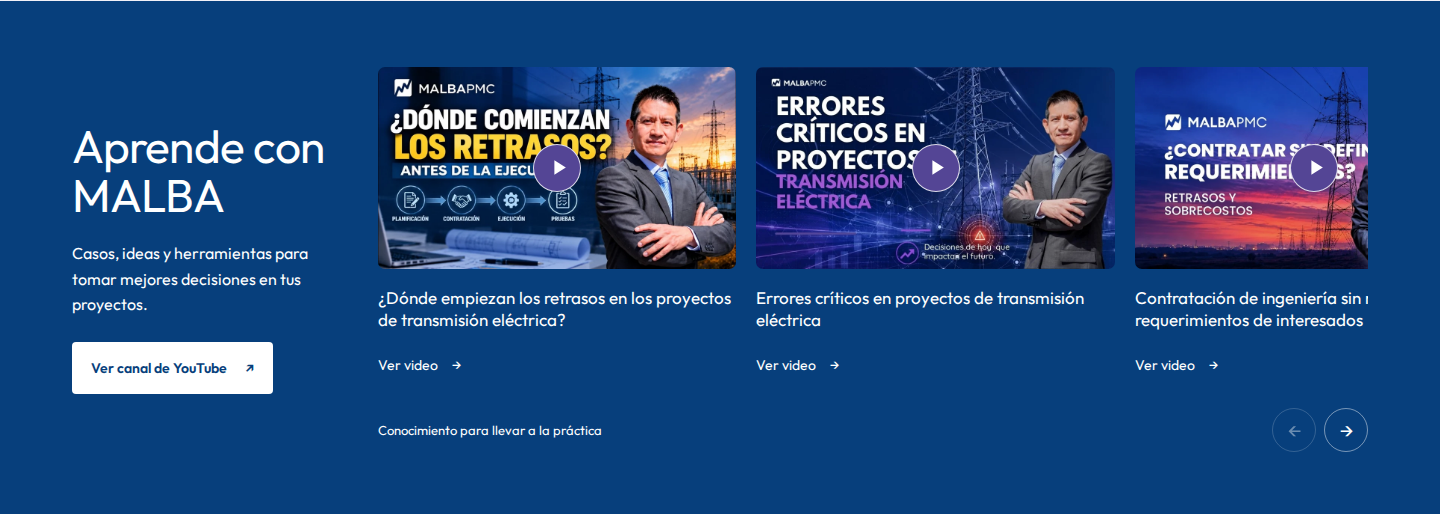
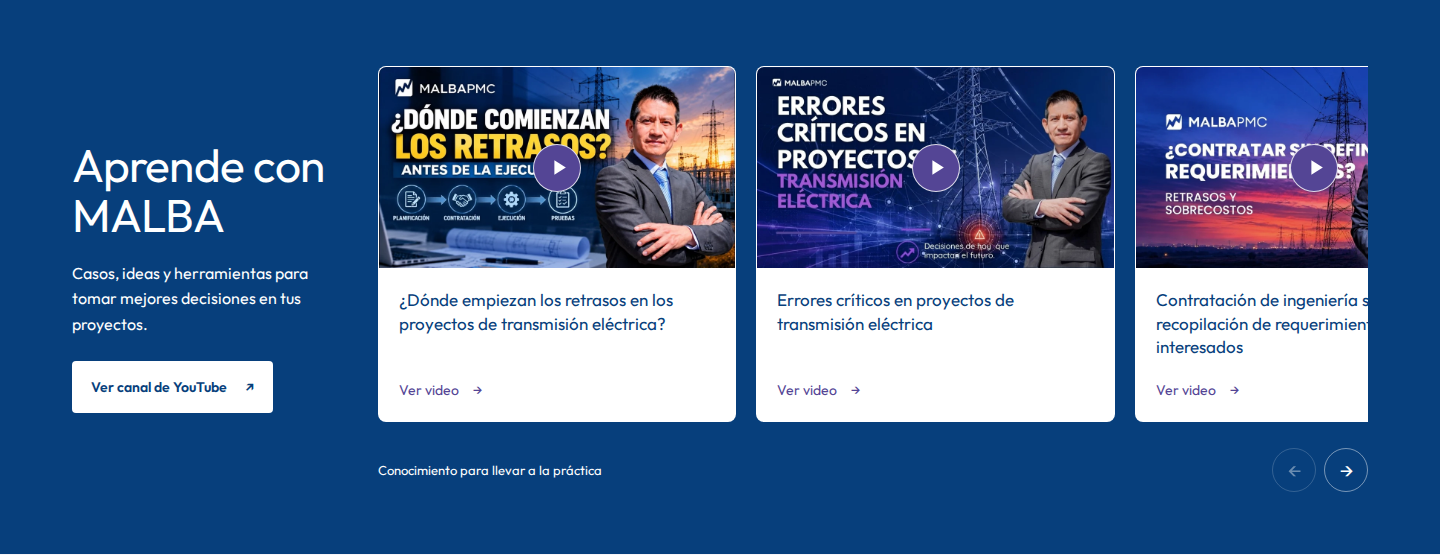
Finish home with video card backgrounds, updated section order and footer

diff --git a/index.html b/index.html
@@ -486,6 +486,41 @@
         </div>
       </section>
 
+      <section class="learn-section" id="aprende" aria-labelledby="learn-title">
+        <div class="learn-layout section-container">
+          <div class="learn-intro"><h2 id="learn-title">Aprende con <span>MALBA</span></h2><p>Casos, ideas y herramientas para tomar mejores decisiones en tus proyectos.</p><a class="button button-white" href="https://www.youtube.com/@malbapmc2563/videos" target="_blank" rel="noopener noreferrer">Ver canal de YouTube <span aria-hidden="true">↗</span></a></div>
+          <div class="learn-collection">
+            <div class="learn-video-track" id="learn-video-list" tabindex="0" aria-label="Videos de MALBA: desliza o usa las flechas para explorar">
+              <article class="learn-video-card">
+                <button class="learn-video-cover" type="button" data-dialog="video-dialog" data-youtube-id="WPikCuHg2q8" data-video-title="¿Dónde empiezan los retrasos en los proyectos de transmisión eléctrica?" aria-label="Ver video: ¿Dónde empiezan los retrasos en los proyectos de transmisión eléctrica?" aria-haspopup="dialog">
+                  <img src="assets/videos/WPikCuHg2q8.webp" width="960" height="540" alt="Portada del video ¿Dónde empiezan los retrasos en los proyectos de transmisión eléctrica?" loading="lazy" decoding="async" />
+                  <span class="learn-play" aria-hidden="true"><svg viewBox="0 0 24 24" fill="currentColor"><path d="m9 5 11 7-11 7V5Z"/></svg></span>
+                </button>
+                <h3>¿Dónde empiezan los retrasos en los proyectos de transmisión eléctrica?</h3>
+                <button class="learn-video-link" type="button" data-dialog="video-dialog" data-youtube-id="WPikCuHg2q8" data-video-title="¿Dónde empiezan los retrasos en los proyectos de transmisión eléctrica?" aria-haspopup="dialog">Ver video <span aria-hidden="true">→</span><span class="sr-only">: ¿Dónde empiezan los retrasos en los proyectos de transmisión eléctrica?</span></button>
+              </article>
+              <article class="learn-video-card">
+                <button class="learn-video-cover" type="button" data-dialog="video-dialog" data-youtube-id="RRj4MDh8rNQ" data-video-title="Errores críticos en proyectos de transmisión eléctrica" aria-label="Ver video: Errores críticos en proyectos de transmisión eléctrica" aria-haspopup="dialog">
+                  <img src="assets/videos/RRj4MDh8rNQ.webp" width="960" height="540" alt="Portada del video Errores críticos en proyectos de transmisión eléctrica" loading="lazy" decoding="async" />
+                  <span class="learn-play" aria-hidden="true"><svg viewBox="0 0 24 24" fill="currentColor"><path d="m9 5 11 7-11 7V5Z"/></svg></span>
+                </button>
+                <h3>Errores críticos en proyectos de transmisión eléctrica</h3>
+                <button class="learn-video-link" type="button" data-dialog="video-dialog" data-youtube-id="RRj4MDh8rNQ" data-video-title="Errores críticos en proyectos de transmisión eléctrica" aria-haspopup="dialog">Ver video <span aria-hidden="true">→</span><span class="sr-only">: Errores críticos en proyectos de transmisión eléctrica</span></button>
+              </article>
+              <article class="learn-video-card">
+                <button class="learn-video-cover" type="button" data-dialog="video-dialog" data-youtube-id="NrEJvAJ7NGo" data-video-title="Contratación de ingeniería sin recopilación de requerimientos de interesados" aria-label="Ver video: Contratación de ingeniería sin recopilación de requerimientos de interesados" aria-haspopup="dialog">
+                  <img src="assets/videos/NrEJvAJ7NGo.webp" width="960" height="540" alt="Portada del video Contratación de ingeniería sin recopilación de requerimientos de interesados" loading="lazy" decoding="async" />
+                  <span class="learn-play" aria-hidden="true"><svg viewBox="0 0 24 24" fill="currentColor"><path d="m9 5 11 7-11 7V5Z"/></svg></span>
+                </button>
+                <h3>Contratación de ingeniería sin recopilación de requerimientos de interesados</h3>
+                <button class="learn-video-link" type="button" data-dialog="video-dialog" data-youtube-id="NrEJvAJ7NGo" data-video-title="Contratación de ingeniería sin recopilación de requerimientos de interesados" aria-haspopup="dialog">Ver video <span aria-hidden="true">→</span><span class="sr-only">: Contratación de ingeniería sin recopilación de requerimientos de interesados</span></button>
+              </article>
+            </div>
+            <div class="collection-controls" data-collection="learn-video-list" aria-label="Recorrer videos"><span>Conocimiento para llevar a la práctica</span><div><button type="button" data-collection-step="-1" aria-label="Video anterior">←</button><button type="button" data-collection-step="1" aria-label="Video siguiente">→</button></div></div>
+          </div>
+        </div>
+      </section>
+
       <section class="expertise-section" id="soluciones" aria-labelledby="expertise-title">
         <div class="expertise-words" aria-hidden="true"><span>EXPERIENCIA · PROYECTOS</span><span>RIESGO · CONOCIMIENTO</span><span>FORMACIÓN · TRANSMISIÓN</span><span>GESTIÓN · EXPERIENCIA</span></div>
         <div class="expertise-layout section-container">
@@ -537,41 +572,25 @@
           <p class="knowledge-closing">Cada resultado alimenta una nueva experiencia. El conocimiento sigue creciendo.</p>
         </div>
       </section>
-      <section class="learn-section" id="aprende" aria-labelledby="learn-title">
-        <div class="learn-layout section-container">
-          <div class="learn-intro"><h2 id="learn-title">Aprende con <span>MALBA</span></h2><p>Casos, ideas y herramientas para tomar mejores decisiones en tus proyectos.</p><a class="button button-white" href="https://www.youtube.com/@malbapmc2563/videos" target="_blank" rel="noopener noreferrer">Ver canal de YouTube <span aria-hidden="true">↗</span></a></div>
-          <div class="learn-collection">
-            <div class="learn-video-track" id="learn-video-list" tabindex="0" aria-label="Videos de MALBA: desliza o usa las flechas para explorar">
-              <article class="learn-video-card">
-                <button class="learn-video-cover" type="button" data-dialog="video-dialog" data-youtube-id="WPikCuHg2q8" data-video-title="¿Dónde empiezan los retrasos en los proyectos de transmisión eléctrica?" aria-label="Ver video: ¿Dónde empiezan los retrasos en los proyectos de transmisión eléctrica?" aria-haspopup="dialog">
-                  <img src="assets/videos/WPikCuHg2q8.webp" width="960" height="540" alt="Portada del video ¿Dónde empiezan los retrasos en los proyectos de transmisión eléctrica?" loading="lazy" decoding="async" />
-                  <span class="learn-play" aria-hidden="true"><svg viewBox="0 0 24 24" fill="currentColor"><path d="m9 5 11 7-11 7V5Z"/></svg></span>
-                </button>
-                <h3>¿Dónde empiezan los retrasos en los proyectos de transmisión eléctrica?</h3>
-                <button class="learn-video-link" type="button" data-dialog="video-dialog" data-youtube-id="WPikCuHg2q8" data-video-title="¿Dónde empiezan los retrasos en los proyectos de transmisión eléctrica?" aria-haspopup="dialog">Ver video <span aria-hidden="true">→</span><span class="sr-only">: ¿Dónde empiezan los retrasos en los proyectos de transmisión eléctrica?</span></button>
-              </article>
-              <article class="learn-video-card">
-                <button class="learn-video-cover" type="button" data-dialog="video-dialog" data-youtube-id="RRj4MDh8rNQ" data-video-title="Errores críticos en proyectos de transmisión eléctrica" aria-label="Ver video: Errores críticos en proyectos de transmisión eléctrica" aria-haspopup="dialog">
-                  <img src="assets/videos/RRj4MDh8rNQ.webp" width="960" height="540" alt="Portada del video Errores críticos en proyectos de transmisión eléctrica" loading="lazy" decoding="async" />
-                  <span class="learn-play" aria-hidden="true"><svg viewBox="0 0 24 24" fill="currentColor"><path d="m9 5 11 7-11 7V5Z"/></svg></span>
-                </button>
-                <h3>Errores críticos en proyectos de transmisión eléctrica</h3>
-                <button class="learn-video-link" type="button" data-dialog="video-dialog" data-youtube-id="RRj4MDh8rNQ" data-video-title="Errores críticos en proyectos de transmisión eléctrica" aria-haspopup="dialog">Ver video <span aria-hidden="true">→</span><span class="sr-only">: Errores críticos en proyectos de transmisión eléctrica</span></button>
-              </article>
-              <article class="learn-video-card">
-                <button class="learn-video-cover" type="button" data-dialog="video-dialog" data-youtube-id="NrEJvAJ7NGo" data-video-title="Contratación de ingeniería sin recopilación de requerimientos de interesados" aria-label="Ver video: Contratación de ingeniería sin recopilación de requerimientos de interesados" aria-haspopup="dialog">
-                  <img src="assets/videos/NrEJvAJ7NGo.webp" width="960" height="540" alt="Portada del video Contratación de ingeniería sin recopilación de requerimientos de interesados" loading="lazy" decoding="async" />
-                  <span class="learn-play" aria-hidden="true"><svg viewBox="0 0 24 24" fill="currentColor"><path d="m9 5 11 7-11 7V5Z"/></svg></span>
-                </button>
-                <h3>Contratación de ingeniería sin recopilación de requerimientos de interesados</h3>
-                <button class="learn-video-link" type="button" data-dialog="video-dialog" data-youtube-id="NrEJvAJ7NGo" data-video-title="Contratación de ingeniería sin recopilación de requerimientos de interesados" aria-haspopup="dialog">Ver video <span aria-hidden="true">→</span><span class="sr-only">: Contratación de ingeniería sin recopilación de requerimientos de interesados</span></button>
-              </article>
-            </div>
-            <div class="collection-controls" data-collection="learn-video-list" aria-label="Recorrer videos"><span>Conocimiento para llevar a la práctica</span><div><button type="button" data-collection-step="-1" aria-label="Video anterior">←</button><button type="button" data-collection-step="1" aria-label="Video siguiente">→</button></div></div>
-          </div>
-        </div>
-      </section>
+
     </main>
+
+    <footer class="site-footer" aria-label="Pie de página">
+      <div class="section-container">
+        <div class="footer-top">
+          <div class="footer-brand">
+            <a href="./" aria-label="MALBA PMC, inicio"><img src="assets/malba-pmc-logo.png" width="1600" height="250" alt="MALBA PMC" loading="lazy" decoding="async" /></a>
+            <p>Experiencia, formación y tecnología para transformar la gestión de proyectos de infraestructura eléctrica.</p>
+            <div class="footer-socials"><a href="https://www.linkedin.com/company/malba-pmc/" target="_blank" rel="noopener noreferrer">LinkedIn <span aria-hidden="true">↗</span></a><a href="https://www.youtube.com/@malbapmc2563" target="_blank" rel="noopener noreferrer">YouTube <span aria-hidden="true">↗</span></a></div>
+          </div>
+          <nav class="footer-navigation" aria-label="Explorar MALBA"><h2>Explora MALBA</h2><ul><li><a href="#ecosistema">Nuestro ecosistema</a></li><li><a href="#programas">Nuestra academia</a></li><li><a href="#soluciones">Soluciones que ofrecemos</a></li><li><a href="https://malba-pmc.com/libro/">Publicaciones</a></li><li><a href="#aprende">Aprende con MALBA</a></li></ul></nav>
+          <nav class="footer-navigation" aria-label="Información de MALBA"><h2>Sobre nosotros</h2><ul><li><a href="https://malba-pmc.com/quienes-somos">Conoce MALBA PMC</a></li><li><a href="https://malba-pmc.com/#consultoria">Consultoría</a></li><li><a href="https://malba-pmc.com/escritorio">Aula virtual</a></li></ul></nav>
+          <div class="footer-contact"><h2>Conversemos</h2><p>Encuentra la formación o solución que tu organización necesita.</p><button class="button button-purple" type="button" data-dialog="contact-dialog">Solicitar información <span aria-hidden="true">→</span></button></div>
+        </div>
+        <div class="footer-bottom"><p>© <span id="footer-year">2026</span> MALBA PMC. Todos los derechos reservados.</p><a href="#contenido">Volver al inicio <span aria-hidden="true">↑</span></a></div>
+      </div>
+    </footer>
+
 
     <dialog id="video-dialog" class="youtube-dialog" aria-labelledby="video-dialog-title">
       <div class="dialog-heading"><h2 id="video-dialog-title">Aprende con MALBA</h2><button type="button" class="dialog-close" aria-label="Cerrar video">×</button></div>

diff --git a/home-sections.css b/home-sections.css
@@ -837,3 +837,52 @@ body:has(#video-dialog[open]) { overflow: hidden; }
   .youtube-player { height: calc(100dvh - 190px); aspect-ratio: auto; }
   .youtube-dialog .youtube-fallback { margin-top: 6px; }
 }
+
+/* Tarjetas de video con fondo blanco y jerarquía propia dentro de la franja azul. */
+.learn-video-card { background: var(--white); color: var(--blue); border: 1px solid rgba(255,255,255,.35); border-radius: 8px; overflow: hidden; }
+.learn-video-cover { border-radius: 0; flex-shrink: 0; }
+.learn-video-card h3 { margin: 0; padding: 20px 20px 14px; font-size: 17px; line-height: 1.4; }
+.learn-video-link { color: var(--purple); margin: 0 20px 14px; padding: 8px 0; }
+.learn-video-card button:focus-visible { outline-color: var(--purple); outline-offset: -4px; }
+.learn-video-card .learn-video-link:focus-visible { outline-offset: 3px; }
+.learn-video-cover:focus-visible .learn-play { box-shadow: 0 0 0 4px var(--white); }
+
+.site-footer { background: var(--white); color: var(--blue); border-top: 1px solid rgba(84,69,149,.14); padding-top: 56px; }
+.footer-top { display: grid; grid-template-columns: 1.25fr 1fr .85fr 1.1fr; gap: 44px; padding-bottom: 44px; }
+.footer-brand, .footer-navigation, .footer-contact { min-width: 0; }
+.footer-brand img { width: 230px; height: auto; }
+.footer-brand p { font-size: 15px; line-height: 1.6; max-width: 280px; margin: 22px 0 18px; }
+.footer-socials { display: flex; gap: 20px; flex-wrap: wrap; color: var(--purple); font-size: 14px; font-weight: 600; }
+.site-footer h2 { font-size: 19px; font-weight: 600; letter-spacing: -.2px; margin: 0 0 20px; }
+.footer-navigation ul { padding: 0; margin: 0; list-style: none; display: grid; gap: 14px; }
+.footer-navigation a { font-size: 15px; line-height: 1.4; display: inline-block; }
+.site-footer a:hover { text-decoration: underline; text-underline-offset: 5px; }
+.footer-contact p { font-size: 15px; line-height: 1.6; margin: 0 0 20px; }
+.footer-contact .button { font-size: 14px; padding: 0 18px; white-space: normal; }
+.footer-bottom { display: flex; justify-content: space-between; align-items: center; gap: 24px; border-top: 1px solid rgba(7,63,124,.14); padding: 22px 0; font-size: 13px; line-height: 1.5; }
+.footer-bottom p { margin: 0; }
+.footer-bottom > a { color: var(--purple); white-space: nowrap; }
+@media (max-width: 1130px) {
+  .footer-top { gap: 28px; grid-template-columns: 1.15fr 1fr .85fr; }
+  .footer-contact { grid-column: 1 / -1; display: flex; gap: 24px; align-items: center; padding-top: 24px; border-top: 1px solid rgba(84,69,149,.14); }
+  .footer-contact h2 { margin: 0; }
+  .footer-contact p { margin: 0; flex: 1; }
+  .footer-contact .button { flex-shrink: 0; }
+}
+@media (max-width: 760px) {
+  .learn-video-card h3 { font-size: 16px; padding: 18px 18px 10px; }
+  .learn-video-link { margin: 0 18px 12px; }
+  .site-footer { padding-top: 40px; }
+  .footer-top { grid-template-columns: repeat(2,minmax(0,1fr)); gap: 30px 20px; padding-bottom: 30px; }
+  .footer-brand { grid-column: 1 / -1; }
+  .footer-brand img { width: 210px; }
+  .footer-brand p { max-width: 430px; margin: 18px 0 16px; font-size: 14px; }
+  .site-footer h2 { font-size: 17px; margin-bottom: 16px; }
+  .footer-navigation ul { gap: 6px; }
+  .footer-navigation a { font-size: 14px; padding: 6px 0; }
+  .footer-contact { display: grid; grid-template-columns: 1fr; gap: 10px; padding-top: 22px; }
+  .footer-contact h2 { margin: 0; }
+  .footer-contact p { font-size: 14px; }
+  .footer-contact .button { margin-top: 6px; width: fit-content; max-width: 100%; }
+  .footer-bottom { font-size: 12px; gap: 14px; flex-direction: column; align-items: flex-start; padding: 20px 0; }
+}

diff --git a/home-sections.js b/home-sections.js
@@ -174,3 +174,6 @@ document.querySelectorAll('[data-youtube-id]').forEach((button) => {
   });
 });
 youtubeDialog.addEventListener('close', () => youtubePlayer.replaceChildren());
+
+// Año del pie de página, sin dependencias ni llamadas externas.
+document.querySelector("#footer-year").textContent = new Date().getFullYear();

diff --git a/README.md b/README.md
@@ -109,3 +109,11 @@ Autor y títulos verificados en el oEmbed oficial de YouTube. Enlaces localizado
 Al pulsar una portada o Ver video se abre un diálogo centrado con iframe `youtube-nocookie.com`. No se carga ningún reproductor al abrir la página. Cerrar con el botón, Escape o el fondo elimina el iframe y detiene el video, devolviendo el foco al control que lo abrió. Se bloquea el scroll del fondo mientras está abierto. El diálogo incluye un enlace directo a YouTube y permite pantalla completa. No hay reproducción automática.
 
 Para cambiar videos, editar `data-youtube-id`, `data-video-title`, el título y la portada de cada tarjeta en `index.html`; los IDs deben tener 11 caracteres válidos. Conservar `data-dialog="video-dialog"` para compartir el comportamiento de los popups existentes. No requiere una API ni clave de YouTube.
+
+## Home final: tarjetas y footer
+
+Orden actual: banner, Nuestro ecosistema, Programas destacados, Aprende con MALBA, presentación de Miguel Alba, ciclo de conocimiento y footer. Aprende con MALBA queda inmediatamente debajo de Programas destacados. Las tarjetas de video tienen fondo blanco, portada superior, título azul y acceso morado; mantienen el scroll horizontal y el popup.
+
+Footer en todo el ancho con logotipo, descripción, LinkedIn y YouTube oficiales, accesos a ecosistema, academia, soluciones, publicaciones, nosotros y aula virtual. Solicitar información abre el diálogo existente. El cierre incluye derechos reservados con año actualizado automáticamente y Volver al inicio. No se publican datos de contacto o enlaces legales de ejemplo. Las columnas se reorganizan en móvil y los enlaces conservan áreas táctiles cómodas.
+
+Capturas completas actuales: `docs/home-desktop.png` y `docs/home-mobile.png`. Footer: `docs/footer-desktop.png` y `docs/footer-mobile.png`. Las capturas de Aprende se actualizaron con las tarjetas blancas.

diff --git a/docs/validation.md b/docs/validation.md
@@ -56,3 +56,9 @@ Sección nueva después del ciclo de conocimiento. Tres videos del canal oficial
 Chromium en 320, 390, 768, 1024, 1440 y 1920 px, más 844×390 en horizontal: sin desbordamiento de página ni errores JavaScript o recursos locales 4xx/5xx. Se comprobó el scroll del carrusel con flechas y teclado, popup centrado, ausencia de iframe inicial, carga de la URL del video seleccionado al abrir, bloqueo del scroll de fondo, cierre por botón/Escape/fondo, eliminación del iframe y retorno de foco. Las pruebas de estos controles usaron una respuesta de iframe de prueba para aislar la interfaz de la entrega externa. Movimiento reducido comprobado en navegación de tarjetas. node --check y git diff --check pasan.
 
 La reproducción audiovisual real no se pudo confirmar en el navegador de este entorno: el iframe de YouTube no terminó de cargar en la comprobación externa. El usuario debe validar esa reproducción al hacer pull en su navegador. El popup incluye un enlace directo al mismo video en YouTube.
+
+## Cierre del home: tarjetas, orden y footer
+
+Chromium en 320, 390, 768, 1024, 1440 y 1920 px. Aprende con MALBA sigue inmediatamente a Programas destacados y sus tres tarjetas usan fondo blanco. Footer semántico único, año actual, enlaces a secciones, contacto por diálogo y retorno de foco comprobados. Banner de dos vistas, menú móvil y popup de video mantienen su funcionamiento. La prueba del iframe de video aisló la interfaz con una respuesta simulada; permanece la limitación de reproducción externa descrita arriba.
+
+Sin desbordamiento horizontal, imágenes faltantes, excepciones JavaScript ni respuestas locales 4xx/5xx. node --check y git diff --check pasan. Capturas completas home-desktop/mobile, footer-desktop/mobile y learn-desktop/mobile actualizadas. La hoja styles.css sigue intacta.
